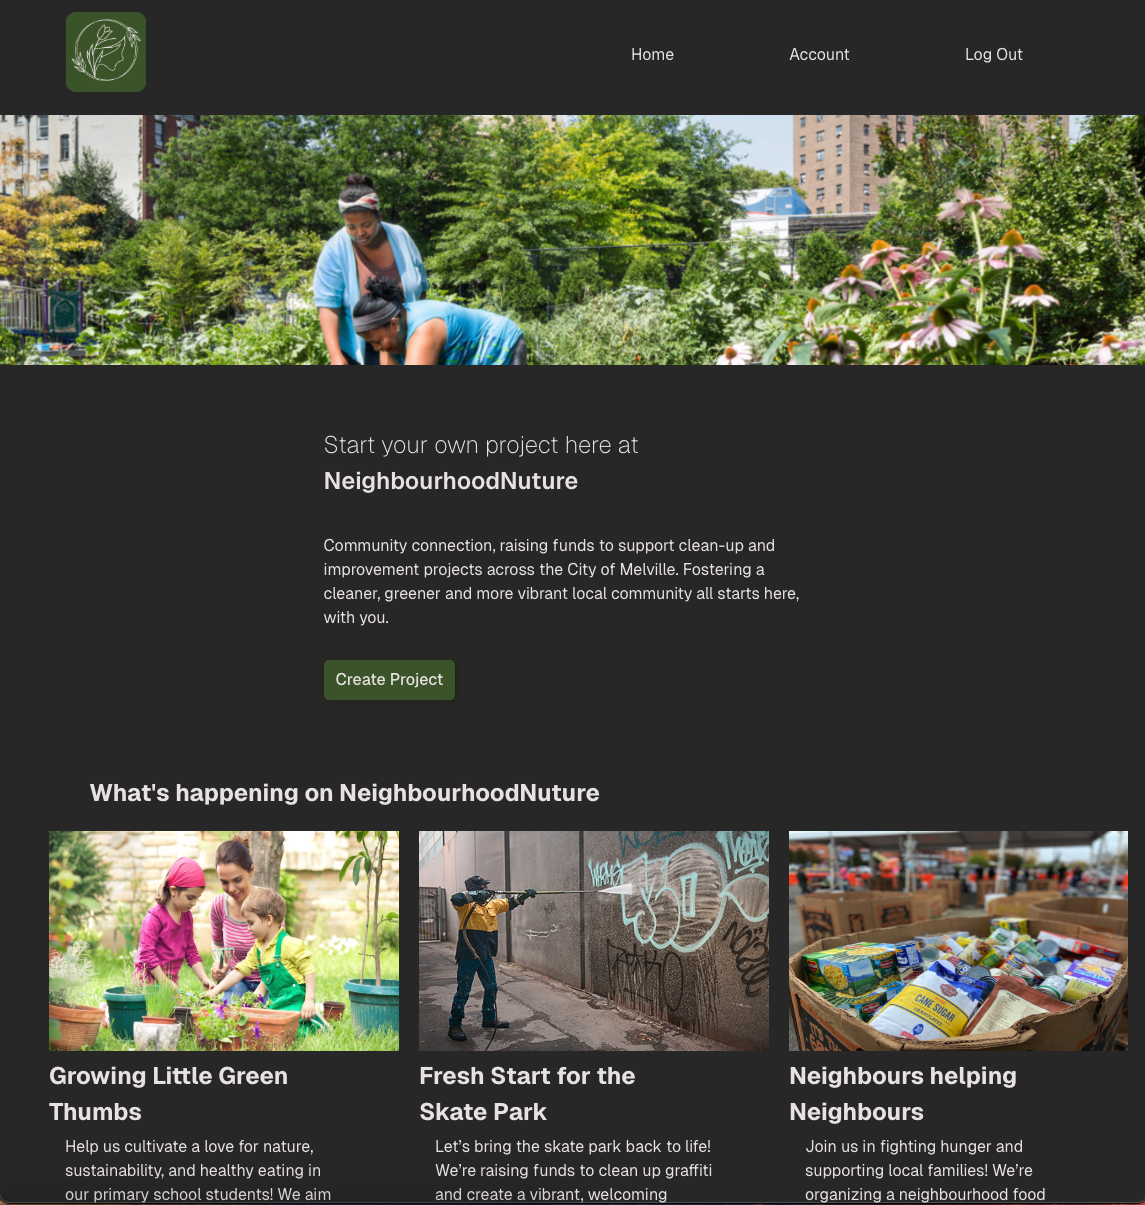
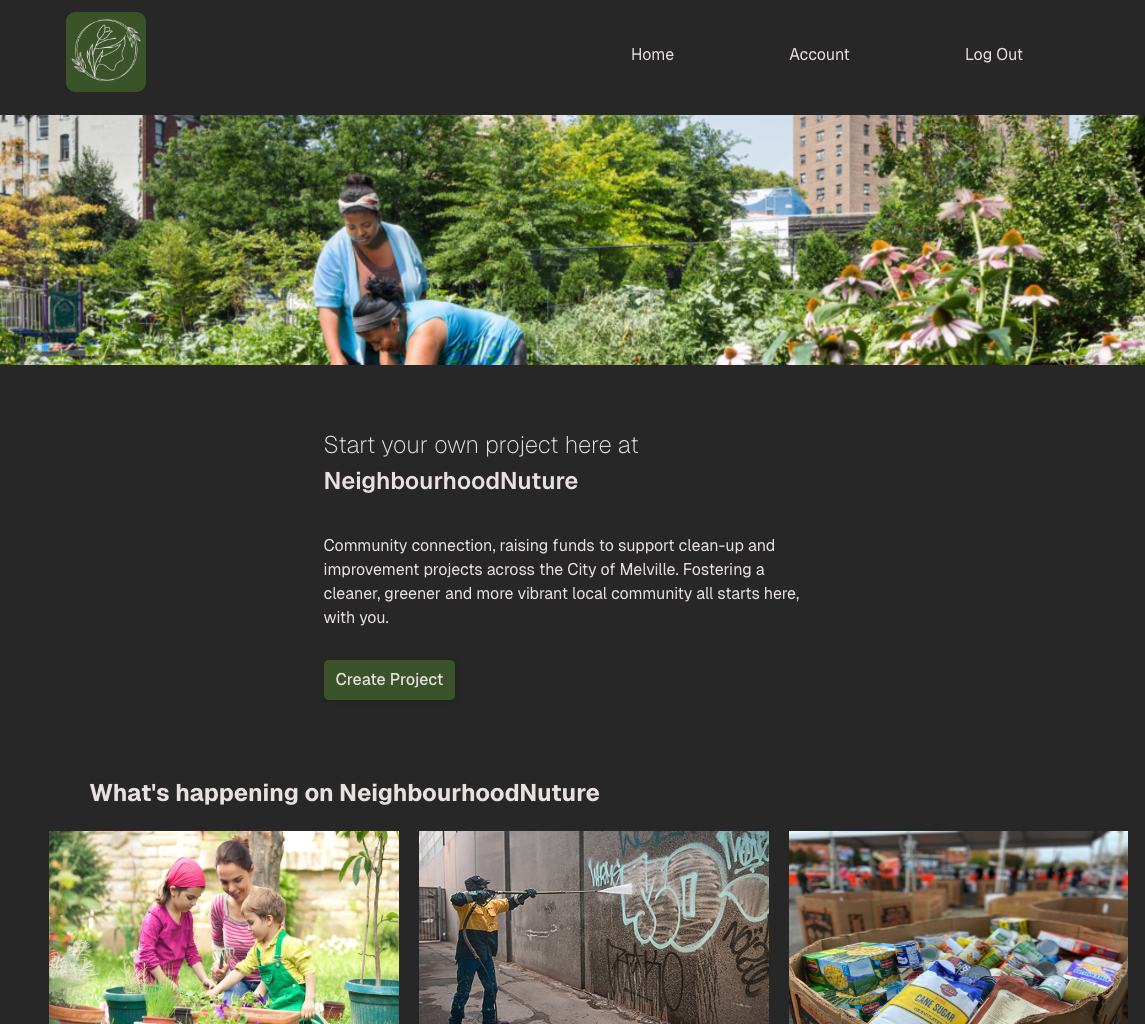
updated projects styling

diff --git a/src/utils/projects.js b/src/utils/projects.js
@@ -8,7 +8,7 @@ export const projects = [
         site: 'https://neighbourhoodnurture.netlify.app/',
     },
     {
-        title: 'Sorting Algorithm Visualiser',
+        title: 'visualgos',
         description:
             'A dynamic web app to visually demonstrate how various sorting algorithms work. Built using ReactJS and styled using TailwindCSS.',
         image: '/project-images/visualiser.png',
@@ -23,7 +23,7 @@ export const projects = [
         code: 'https://github.com/cachemedei/Pickster-App',
     },
     {
-        title: 'Australian Weather App',
+        title: 'Aus Weather',
         description:
             "An app built with ReactJS that uses Open Weather Map's API for generating up to date weather in Australian cities.",
         image: '/project-images/weather.png',

diff --git a/src/components/Project.jsx b/src/components/Project.jsx
@@ -6,7 +6,7 @@ const Project = () => {
         projectTitle: 'text-[20px] text-[#1b721b] md:text-[26px]',
         text: 'font-light ml-[10px] md:text-[20px]',
         button: 'border-[1px] border-[#6c976c] rounded py-[5px] px-[8px] mr-[25px] mt-[15px] md:text-[16px] md:px-[10px] hover:scale-110 duration-500',
-        image: 'rounded-md my-[20px] h-[280px] md:mx-auto md:h-[420px] lg:w-[420px]',
+        image: 'rounded-md my-[20px] w-[280px] md:mx-auto md:w-[420px]',
         container: 'lg:w-[40%]',
     };
 
